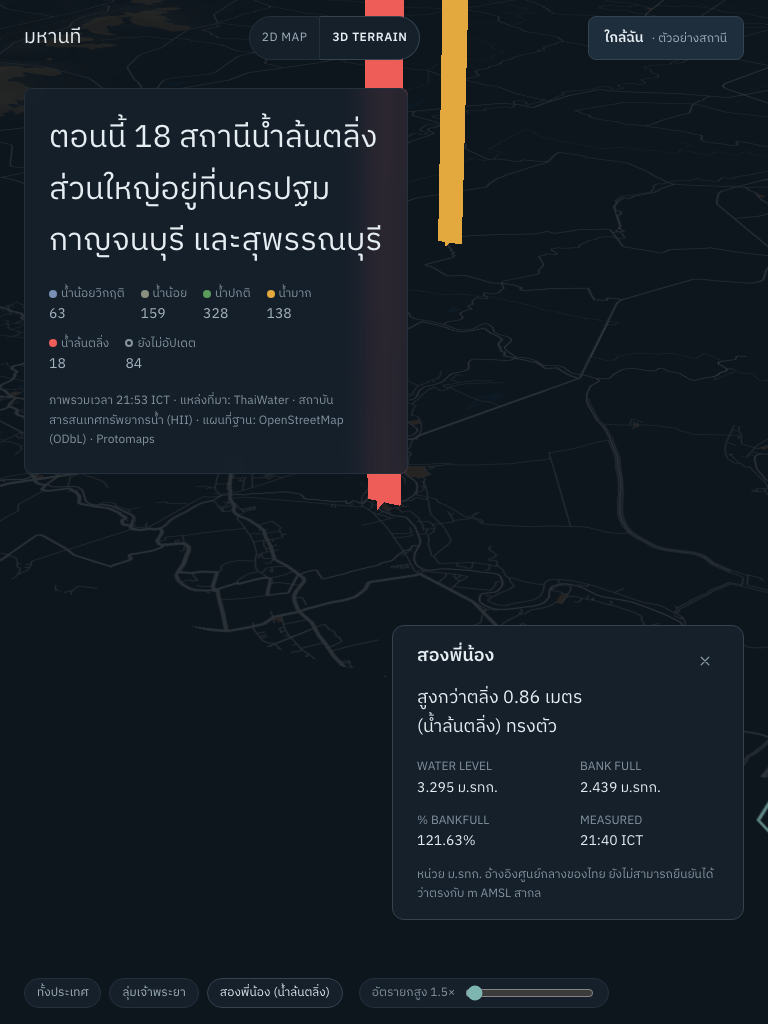
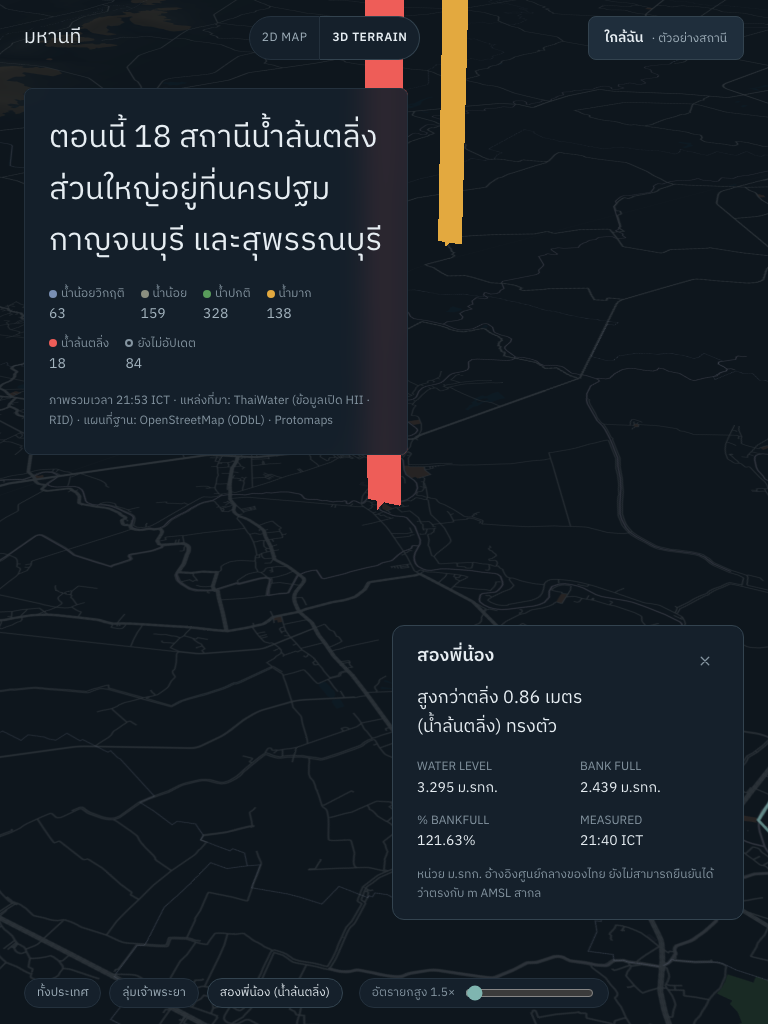
docs(demo): the interview script; the credit names RID (Phase 4 P1)
DEMO.md is the 20-second interview script: the Thai opening, the
QR-and-phone beat, the three why-us bullets, and the honest closing
line the lead scripted. Every claim is one the build can show on
screen - the 72-h timeline appears as the API capability it actually
is (docs/api.md), not as a UI chart that does not exist yet, and the
banned-phrase rules head the "do not say" section.

The panel's permanent credit now names RID beside HII (ThaiWater's
open data, both agencies verified in the Phase 2 research) on top of
the OSM/Protomaps basemap credit. Gate screenshots re-shot.

diff --git a/web/src/routes/Lookdev.tsx b/web/src/routes/Lookdev.tsx
@@ -30,8 +30,9 @@ export interface Fixture {
 
 // The publisher is HII's ThaiWater platform; the stations themselves
 // come from four agencies (HII, RID, FOP, EGAT - the Phase 2 research),
-// so the credit names the platform, not one agency.
-const SOURCE_LINE = 'แหล่งที่มา: ThaiWater · สถาบันสารสนเทศทรัพยากรน้ำ (HII) · แผนที่ฐาน: OpenStreetMap (ODbL) · Protomaps';
+// so the credit names the platform and its two largest contributors.
+const SOURCE_LINE =
+  'แหล่งที่มา: ThaiWater (ข้อมูลเปิด HII · RID) · แผนที่ฐาน: OpenStreetMap (ODbL) · Protomaps';
 
 /** The gauge rendering for this page load: poles (the 3D layer) by
  *  default, discs behind ?gauges=discs for the lead's comparison. */

diff --git a/docs/DEMO.md b/docs/DEMO.md
@@ -1,0 +1,47 @@
+# DEMO — มหานที (Mahanathi)
+
+สคริปต์สาธิตสำหรับสัมภาษณ์ YWC21 (16:00, 2026-10-31). ทุกประโยคเป็นสิ่งที่ระบบทำได้จริงในเว็บที่ deploy แล้วเท่านั้น — ไม่มีสิ่งที่ยังไม่มีในหน้าเว็บ
+
+## ก่อนเริ่ม (2 นาที)
+
+- เปิด URL ที่ deploy ไว้บนโน้ตบุ๊ก (จอกว้าง) และสแกน QR code ด้วยมือถือตัวเอง
+- ถ้าเปิดใน LINE ให้ชี้ให้กรรมการเห็นข้อความเสนอ "เปิดในเบราว์เซอร์ภายนอก" แล้วกดผ่าน — นี่คือ J6 ที่ทำงานจริง
+- หน้าเริ่มต้นคือมุมมอง 3D TERRAIN: ภูมิประเทศไทยตอนกลางคืน เกจวัดน้ำ 804 สถานีทั่วประเทศเป็นเสาบาง ๆ ระดับสีตามสถานการณ์
+
+## บทเปิด (3 บรรทัด พูดช้า ๆ)
+
+> "มหานทีคือแผนที่ภูมิประเทศไทยตอนกลางคืน ที่มีเกจวัดน้ำของประเทศอยู่บนนั้นทุกตัว
+> ข้อมูลเปิดจาก ThaiWater ของ HII และกรมชลประทาน — เราอ่านมาเล่าเป็นภาษาไทยที่คนทั่วไปฟังรู้เรื่องในประโยคเดียว
+> ลองดูสถานีใกล้ตัวก่อนไหมครับ"
+
+## จังหวะ 20 วินาที (QR + มือถือ)
+
+1. กรรมการสแกน QR → หน้าเดิมโหลดบนมือถือ (เฟรมแรกตามงบ <2 วินาที)
+2. กด **ใกล้ฉัน** → กล้องบินไปสถานีตัวอย่าง (สองพี่น้อง นครปฐม) → ประโยคเดียว: *"สูงกว่าตลิ่ง 0.86 เมตร (น้ำล้นตลิ่ง) ทรงตัว"* พร้อมตัวเลขที่วัดจริง เวลาที่วัด และที่มา
+3. ชี้ที่ป้าย **· ตัวอย่างสถานี** และบอกตรง ๆ: "ตอนนี้ยังเป็นสถานีตัวอย่าง — รุ่นถัดไปใช้ตำแหน่งจริงบนเครื่องของผู้ใช้ ข้อมูลตำแหน่งไม่ออกจากเครื่อง"
+4. สลับ **2D MAP / 3D TERRAIN** ให้ดู — แผนที่ราบกลางคืนกับภูมิประเทศ สลับกันได้ในไม่กี่วินาที
+
+## ทำไมต้องมหานที (3 ข้อ)
+
+- **ประโยคเดียวจบ** — สรุปภาพรวมประเทศเป็นภาษาไทยหนึ่งประโยค ไม่ต้องคลิกทีละสถานีอ่านตาราง
+- **เกจทั้งประเทศบนภูมิประเทศจริง** — ระดับน้ำอ่านจากรูปทรงก่อนสี: เสามีขีดตลิ่ง น้ำเต็มเสาไหล ข้อมูลเก่าเป็นเสาโปร่ง ใช้ได้แม้ตาบอดสีหรือพิมพ์ขาวดำ
+- **ทำงานตอนกลางคืนบนมือถือ แม้ใน LINE** — ดีไซน์มืดก่อน ปุ่มใหญ่พอสำหรับมือเดียว และมีทางออกให้ผู้ใช้ LINE จริง
+
+## ความจริงที่ควรพูด (ความซื่อสัตย์ของผลิตภัณฑ์)
+
+- ระบบทางการลึกกว่ามาก — เราอ่านข้อมูลเปิดของเขามาเล่าให้คนทั่วไปฟังในหนึ่งประโยค
+- ของ 804 สถานี 315 สถานีมาจากกรมชลประทาน (RID) ผ่าน ThaiWater — ข้อมูลเปิดคือเหตุผลที่งานนี้เกิดได้
+- เราบอกแต่สิ่งที่วัดได้: ระดับ ณ เวลาที่วัด จากผู้ให้ข้อมูล ไม่ทำนาย ไม่บอกว่าจะท่วมหรือไม่ท่วม
+- ประวัติ 72 ชั่วโมงมีพร้อมใน API ของเราแล้ว (รูปแบบไบนารี MNTL, เอกสารที่ `docs/api.md`) — กราฟบนหน้าเว็บเป็นเฟสถัดไป
+
+## สิ่งที่ห้ามพูด (กฎของโปรเจกต์ บังคับด้วยเทส)
+
+- คำว่า ปลอดภัย / จะท่วม / ไม่ท่วม และทุกถ้อยคำที่ทำนายหรือปลอบใจ
+- "โหลดเร็วกว่าวินาที" — งบจริงคือเฟรมแรก <2 วินาที พูดตามงบเท่านั้น
+- เปรียบเทียบเชิงลบกับ ThaiWater — เรายืนบนข้อมูลของเขา น้ำเสียงคือ "สร้างบนข้อมูลเปิดของเขา" เสมอ
+
+## ถ้าถูกถาม
+
+- **ทำไมดีไซน์มืด?** — ผู้ใช้จริงคือคนที่กังวลน้ำตอนกลางคืน ถือมือถือหนึ่งมือ หน้าจอสว่างคือศัตรูของตาที่ปรับตัวกับความมืดแล้ว
+- **ข้อมูลเก่าทำไม?** — บางสถานีรายงานช้า เราไม่ปลอมให้ดูสด: เสาโปร่ง ป้าย "ยังไม่อัปเดต" และประโยคบอกเวลาที่วัดจริงเสมอ
+- **ความแม่นยำ?** — ไปป์ไลน์ตรวจกับ oracle 789/789 เรคคอร์ดตรงกัน และตัวเลขทุกตัวบนจอมาจากข้อมูลวัดจริงไม่ใช่ค่าปัด
